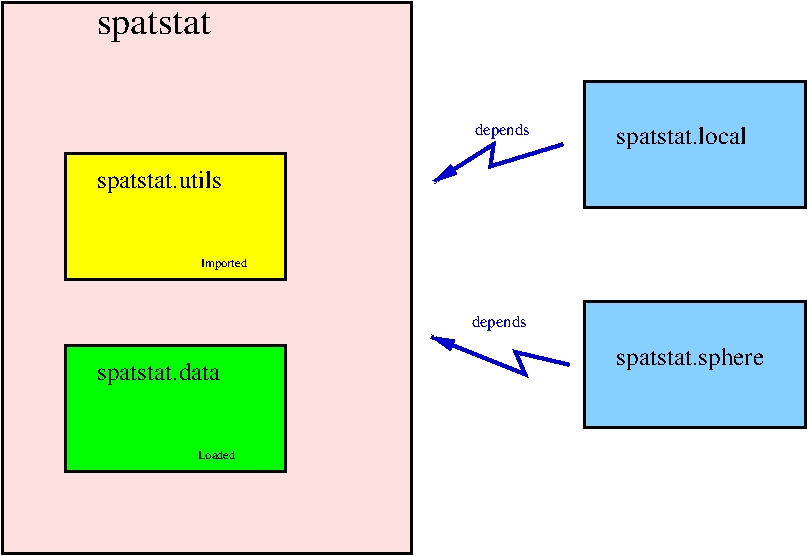
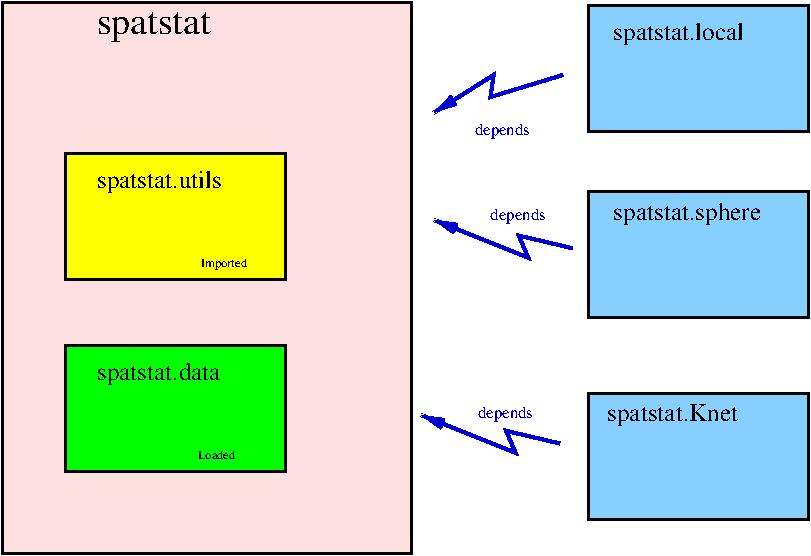
Tweak README and picture

diff --git a/README.md b/README.md
@@ -61,13 +61,16 @@ the user. To access these utility functions directly, you need to type
 
 There are also *extension packages* which provide additional capabilities
 and must be loaded explicitly when you need them. 
-Currently there are two extension packages:
+Currently there are three extension packages:
 
    . [spatstat.local](https://github.com/baddstats/spatstat.local)
    for local model-fitting, 
 
    . [spatstat.sphere](https://github.com/spatstat/spatstat.sphere)
-   for analysing point patterns on a sphere.
+   for analysing point patterns on a sphere,
+
+   . [spatstat.Knet](https://github.com/spatstat/spatstat.Knet)
+   for analysing point patterns on a network of lines.
 
 ## Installation
 
